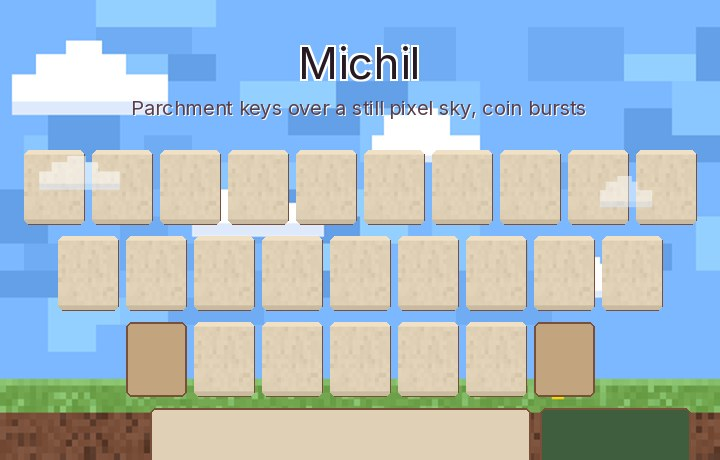
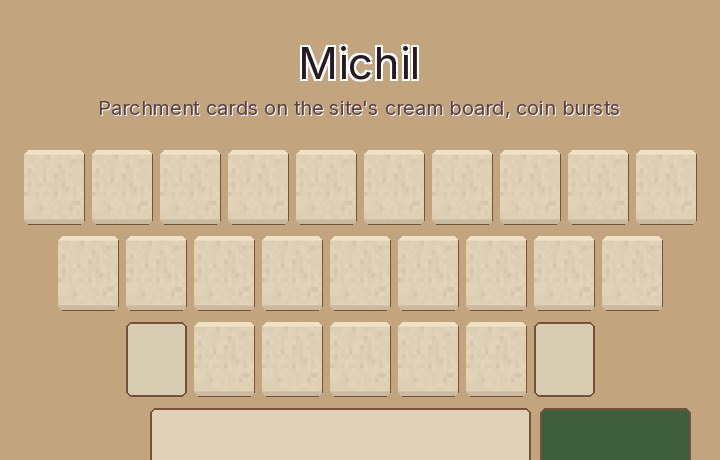
refactor(themes): Michil is the site's dashboard, not its hero
The board is now the site's flat cream page colour instead of a pixel
sky, the space bar is a parchment card like every other key (the grass
block was a sandbox-game element — Blockland's department), and the
cloud decals are gone with the sky. Pressing a key flashes the site's
warning gold; modifiers sit on beige so they read against the cream
board. Payload drops 22 KB -> 9 KB.

diff --git a/tools/generate_showcase_themes.py b/tools/generate_showcase_themes.py
@@ -681,10 +681,9 @@ def deep_orbit() -> dict:
 # The Michil prep-community site's design language: chunky pixel-art UI in an
 # exact palette (their CSS custom properties, transcribed below), parchment
 # cards edged in brown, deep-green quest buttons outlined in light green, gold
-# coins everywhere, and a blocky sky-and-grass hero. The board is that hero as
-# a still pixel sky (the drifting-cloud loop belongs to Blockland); the keys
-# are the parchment cards; enter is the STUDENT button; space is the grass
-# block; presses pay out Michilcoins.
+# coins everywhere. The board is the site's flat cream page background — the
+# blocky sky-and-grass hero belongs to Blockland — the keys are the parchment
+# cards; enter is the STUDENT button; presses pay out Michilcoins.
 
 MICHIL_LIGHT_GREEN = (0x6E, 0xA2, 0x4A)  # --color-tathir-light-green
 MICHIL_DARK_GREEN = (0x3E, 0x5E, 0x3E)  # --color-tathir-dark-green
@@ -696,7 +695,7 @@ MICHIL_MAROON = (0x5A, 0x3A, 0x2B)  # --color-tathir-maroon
 MICHIL_GOLD = (0xFF, 0xD7, 0x00)  # --color-tathir-gold
 MICHIL_BRONZE = (0xCD, 0x7F, 0x32)  # --color-tathir-bronze
 MICHIL_SUCCESS = (0x86, 0xC0, 0x6C)  # --color-tathir-success
-MICHIL_INFO = (0x7C, 0xB8, 0xFF)  # --color-tathir-info
+MICHIL_WARNING = (0xE6, 0xB3, 0x5E)  # --color-tathir-warning
 
 
 def bevel_tile(base: tuple, jitter: int, top: tuple, bottom: tuple, speckles=()) -> Image.Image:
@@ -724,23 +723,8 @@ def michil_button_tile() -> Image.Image:
 
 
 def michil_pressed_tile() -> Image.Image:
-    """The parchment pushed in: bevel inverted, a shade darker."""
-    return bevel_tile(MICHIL_BEIGE, 4, shade(MICHIL_BEIGE, -24), shade(MICHIL_BEIGE, 12))
-
-
-def michil_grass_space() -> Image.Image:
-    """The hero ground as a wide strip: grass crown over dirt."""
-    img = Image.new("RGB", (64, 16))
-    px = img.load()
-    for y in range(16):
-        for x in range(64):
-            if y < 5:
-                base = MICHIL_SUCCESS if y == 0 or rng.random() < 0.18 else MICHIL_LIGHT_GREEN
-                px[x, y] = shade(base, rng.randint(-10, 10))
-            else:
-                base = MICHIL_MAROON if rng.random() < 0.16 else MICHIL_BROWN
-                px[x, y] = shade(base, rng.randint(-10, 10))
-    return upscale(img, 8)
+    """The card pushed in: the site's warning gold, bevel inverted."""
+    return bevel_tile(MICHIL_WARNING, 4, shade(MICHIL_WARNING, -24), shade(MICHIL_WARNING, 12))
 
 
 MICHIL_COIN = sprite_from_rows(
@@ -815,11 +799,9 @@ def _pixel_sky_scene(
     grass_hi: tuple,
     dirt: tuple,
     dirt_dark: tuple,
-    coin: tuple | None,
 ) -> tuple[Image.Image, list]:
     """The hero scene's fixed parts: the patched-sky-and-ground plate and the
-    cloud layers (sprite, y, laps per cycle, phase). Shared by the animated
-    (Blockland) and the still (Michil) renders."""
+    cloud layers (sprite, y, laps per cycle, phase)."""
     lw, lh = 120, 68
     grass_top, dirt_top = 56, 61
     plate = Image.new("RGB", (lw, lh), sky)
@@ -838,8 +820,6 @@ def _pixel_sky_scene(
             else:
                 base = dirt_dark if rng.random() < 0.16 else dirt
             px[x, y] = shade(base, rng.randint(-8, 8))
-    if coin is not None:
-        ImageDraw.Draw(plate).rectangle([92, 57, 93, 58], fill=coin)
     clouds = [
         # (sprite, y, laps per cycle, phase): far clouds drift once per
         # cycle, near ones twice — whole laps keep the loop seamless.
@@ -870,7 +850,6 @@ def blockland_sky_gif() -> list[Image.Image]:
         grass_hi=(121, 189, 92),
         dirt=(121, 85, 58),
         dirt_dark=(96, 66, 44),
-        coin=None,
     )
     steps = 30
     return [
@@ -879,20 +858,6 @@ def blockland_sky_gif() -> list[Image.Image]:
         .convert("P")
         for f in range(steps)
     ]
-
-
-def michil_sky_still() -> Image.Image:
-    """The Michil hero as a still: same scene, clouds parked, coin resting
-    in the grass."""
-    plate, clouds = _pixel_sky_scene(
-        sky=MICHIL_INFO,
-        grass=MICHIL_LIGHT_GREEN,
-        grass_hi=MICHIL_SUCCESS,
-        dirt=MICHIL_BROWN,
-        dirt_dark=MICHIL_MAROON,
-        coin=MICHIL_GOLD,
-    )
-    return upscale(_compose_sky_frame(plate, clouds, 0.0), 4)
 
 
 def michil() -> dict:
@@ -904,17 +869,16 @@ def michil() -> dict:
         "id": "michil",
         "name": "Michil",
         "dark": False,
-        "boardBackground": c(0x00000000),
-        "backgroundImageOpacity": 1.0,
-        "backgroundImageBlur": 0.0,
+        # The site's flat cream page background; the cards sit right on it.
+        "boardBackground": argb(MICHIL_CREAM),
         "keyShape": "SHARP",
         "keyBackground": argb(MICHIL_CREAM_LIGHT),
         "keyText": argb(MICHIL_MAROON),
-        "modifierKeyBackground": argb(MICHIL_CREAM),
+        "modifierKeyBackground": argb(MICHIL_BEIGE),
         "modifierKeyText": argb(MICHIL_MAROON),
         "enterKeyBackground": argb(MICHIL_DARK_GREEN),
         "enterKeyText": argb(MICHIL_BEIGE),
-        "pressedKeyBackground": argb(MICHIL_BEIGE),
+        "pressedKeyBackground": argb(MICHIL_WARNING),
         "keyBorderColor": argb(MICHIL_BROWN),
         "keyBorderWidthDp": 2.0,
         "accent": argb(MICHIL_LIGHT_GREEN),
@@ -966,22 +930,14 @@ def michil() -> dict:
                 "popupText": argb(MICHIL_BEIGE),
             },
         },
-        "decals": [
-            {"id": "cloud_l", "x": 0.11, "y": 0.08, "scale": 0.13, "rotationDeg": 0.0, "opacity": 0.55},
-            {"id": "cloud_r", "x": 0.87, "y": 0.14, "scale": 0.09, "rotationDeg": 0.0, "opacity": 0.5},
-        ],
         "assets": {
             "keyTexture": b64(michil_parchment(MICHIL_CREAM_LIGHT)),
-            "keyTextureModifier": b64(michil_parchment(MICHIL_CREAM)),
+            "keyTextureModifier": b64(michil_parchment(MICHIL_BEIGE)),
             "keyTextureEnter": b64(michil_button_tile()),
-            "keyTextureSpace": b64(michil_grass_space()),
             "keyTexturePressed": b64(michil_pressed_tile()),
             "popupTexture": b64(michil_parchment(MICHIL_BEIGE)),
-            "decal:cloud_l": b64(michil_cloud(30)),
-            "decal:cloud_r": b64(michil_cloud(22)),
             **{f"effectImage:{i}": b64(img) for i, img in enumerate(fx)},
         },
-        "backgroundImageBase64": b64(michil_sky_still()),
     }
 
 
@@ -1136,7 +1092,7 @@ SUBTITLES = {
     "blockland": "Tiled block textures under a drifting pixel sky",
     "typewriter-noir": "Paper keys, mono type, a red carriage return",
     "deep-orbit": "A nebula photo, a ringed planet, star bursts",
-    "michil": "Parchment keys over a still pixel sky, coin bursts",
+    "michil": "Parchment cards on the site's cream board, coin bursts",
 }
 
 

diff --git a/README.md b/README.md
@@ -19,7 +19,7 @@ To add this repository in **WM Keyboard**, open **Settings → Addons → Add re
 | **Blockland** | `theme` | A blocky sandbox look: tiled dirt letter keys, stone modifiers, a grass enter and a plank space bar under a drifting pixel-cloud sky — a real looping GIF — with a thock key sound. The E key is cut from emerald, and the key popup is a dead-square plank block with a chunky rim. | <img src="previews/blockland.jpg" width="120" alt="Blockland Preview" /> | [`themes/blockland.wmtheme.json`](themes/blockland.wmtheme.json) |
 | **Typewriter Noir** | `theme` | Paper keys on a dark desk — round typewriter caps rimmed in metal — a red carriage-return enter, and grain in the paper. The key popup is a round cap too. Designed around the JetBrains Mono font and the Typewriter key sound. | <img src="previews/typewriter-noir.jpg" width="120" alt="Typewriter Noir Preview" /> | [`themes/typewriter-noir.wmtheme.json`](themes/typewriter-noir.wmtheme.json) |
 | **Deep Orbit** | `theme` | A nebula photo behind translucent pill keys, a ringed planet resting on the corner of the board, a galaxy strip across the space bar and star bursts under your fingers. Key popups float free above the keys like ringed bubbles. Designed around the Droplet key sound. | <img src="previews/deep-orbit.jpg" width="120" alt="Deep Orbit Preview" /> | [`themes/deep-orbit.wmtheme.json`](themes/deep-orbit.wmtheme.json) |
-| **Michil** | `theme` | A pixel study-hall in the Michil community's exact palette: parchment keys edged in brown over a still pixel sky, a grass-block space bar, a deep-green quest-button enter outlined in light green, a gold Michilcoin on the M key, and coins, stars and trophies bursting from every press. Designed around the Bloxat font and the Blip key sound. | <img src="previews/michil.jpg" width="120" alt="Michil Preview" /> | [`themes/michil.wmtheme.json`](themes/michil.wmtheme.json) |
+| **Michil** | `theme` | The Michil community's dashboard as a keyboard, in its exact palette: parchment card keys edged in brown on the site's flat cream background, a deep-green quest-button enter outlined in light green, a gold Michilcoin on the M key, a warning-gold press flash, and coins, stars and trophies bursting from every press. Designed around the Bloxat font and the Blip key sound. | <img src="previews/michil.jpg" width="120" alt="Michil Preview" /> | [`themes/michil.wmtheme.json`](themes/michil.wmtheme.json) |
 | **Braille (Unicode)** | `layout` | Types Unicode braille cells (⠁⠃⠉⠙) from QWERTY key positions, with the Latin letter on long-press and shown as the corner hint. Includes the capital and number signs. For writing braille as text — it is not a six-key chorded braille input. | <img src="previews/braille-grid.jpg" width="120" alt="Braille (Unicode) Preview" /> | [`layouts/braille.wmlayout.json`](layouts/braille.wmlayout.json) |
 | **Developer Dictionary** | `dictionary` | An exhaustive developer dictionary containing top programming terms, syntax keywords, libraries, DevOps tools, databases, and methodologies. | <img src="previews/en-developer.png" width="120" alt="Developer Dictionary Preview" /> | [`dictionaries/en-developer.txt`](dictionaries/en-developer.txt) |
 | **Internet Slang & Urban Dictionary** | `dictionary` | An exhaustive internet slang dictionary covering Gen Z, Gen Alpha, brainrot, Twitch emotes, TikTok trends, AI tech slang, anime/K-Pop culture, gaming terminology, and Urban Dictionary acronyms. | <img src="previews/en-slang.png" width="120" alt="Internet Slang & Urban Dictionary Preview" /> | [`dictionaries/en-slang.txt`](dictionaries/en-slang.txt) |
